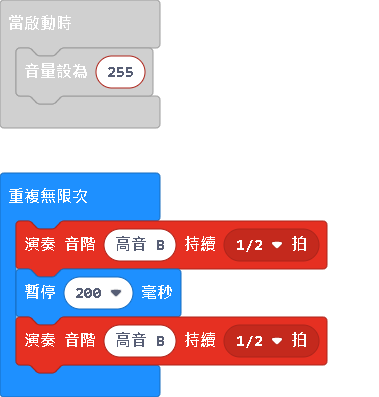
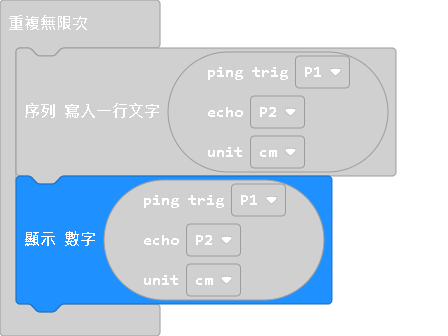
更新 main.blocks, main.ts

diff --git a/main.ts b/main.ts
@@ -1,10 +1,5 @@
 music.setVolume(255)
 basic.forever(function () {
-    music.playTone(988, music.beat(BeatFraction.Half))
-    basic.pause(200)
-    music.playTone(988, music.beat(BeatFraction.Half))
-})
-basic.forever(function () {
     serial.writeLine("" + (sonar.ping(
     DigitalPin.P1,
     DigitalPin.P2,
@@ -15,11 +10,9 @@ basic.forever(function () {
     DigitalPin.P2,
     PingUnit.Centimeters
     ))
-    if (sonar.ping(
-    DigitalPin.P1,
-    DigitalPin.P2,
-    PingUnit.Centimeters
-    ) > 5) {
-    	
-    }
+})
+basic.forever(function () {
+    music.playTone(988, music.beat(BeatFraction.Half))
+    basic.pause(200)
+    music.playTone(988, music.beat(BeatFraction.Half))
 })
